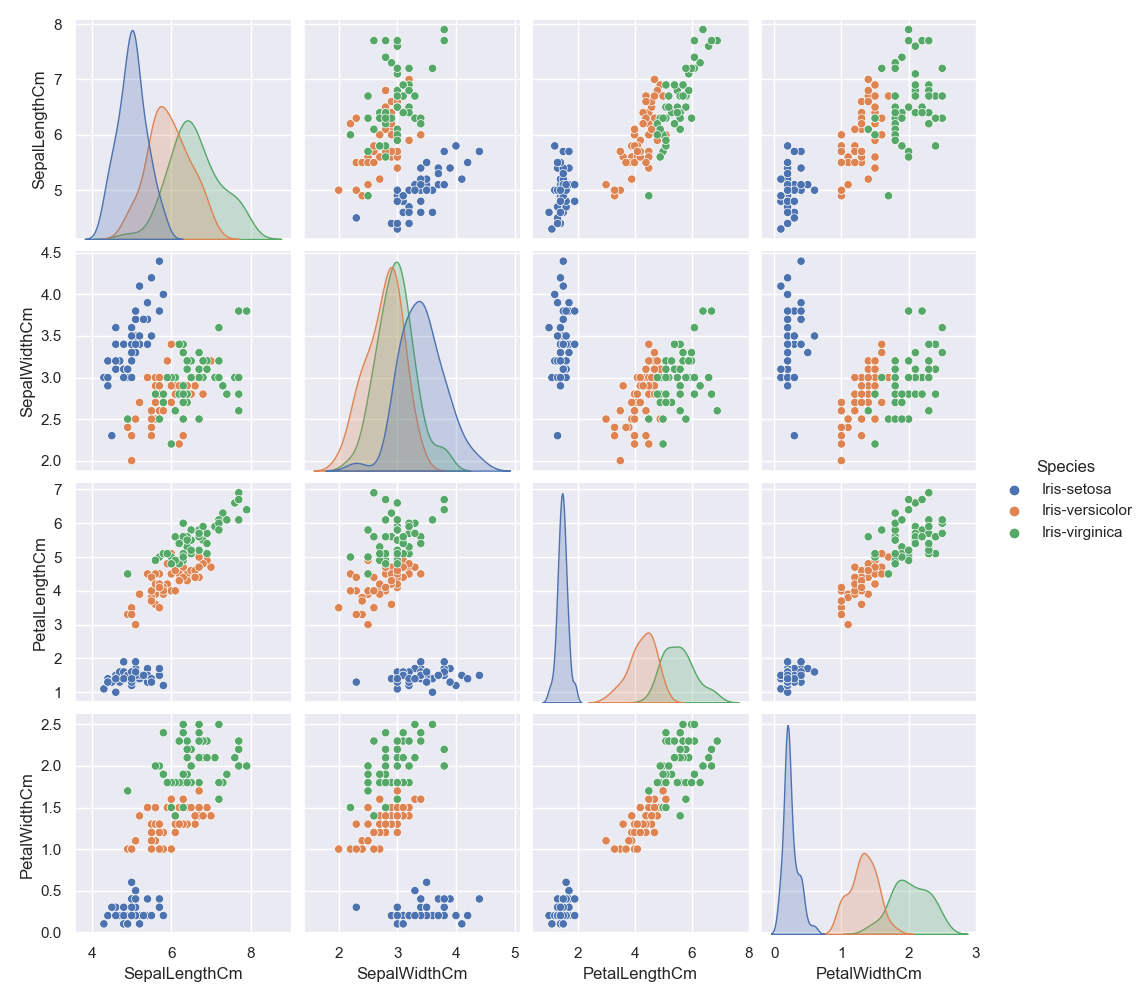
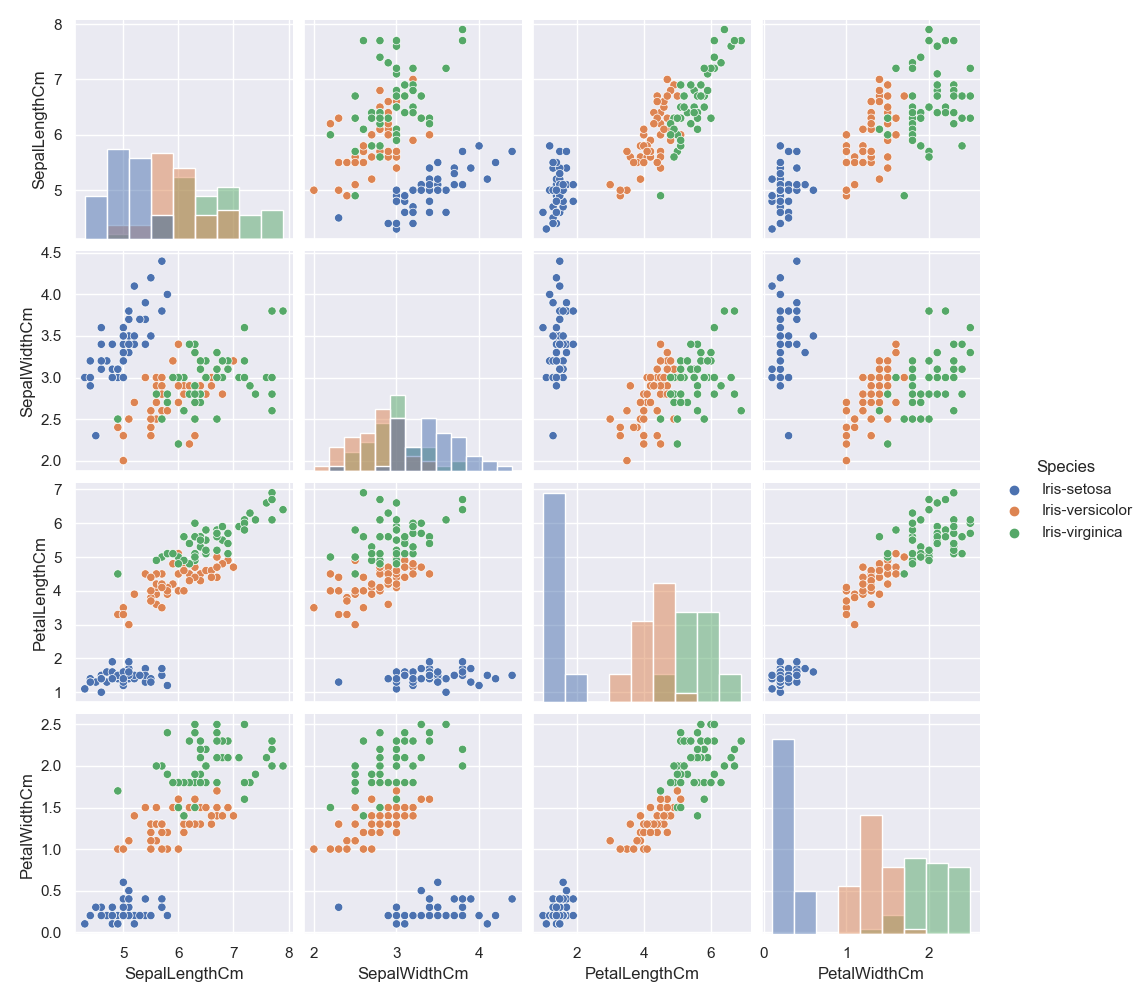
Pairplot updated to use diagonally Histograms, also graph added to readme file and png file name updated.

diff --git a/analysis.py b/analysis.py
@@ -97,8 +97,8 @@ plt.show ()
 
 #Pairplot
 new_iris = iris[["SepalLengthCm", "SepalWidthCm", "PetalLengthCm", "PetalWidthCm", "Species"]] #to remove Id column 
-combination = sns.pairplot(data= new_iris, hue="Species") # https://seaborn.pydata.org/generated/seaborn.pairplot.html
+combination = sns.pairplot(data= new_iris, hue="Species", diag_kind="hist") # https://seaborn.pydata.org/generated/seaborn.pairplot.html
 
 #Save this plot as file
-plt.savefig('PNG/Scatterplot_CombinationsSepalPetal.png')   
+plt.savefig('PNG/Pairplot_CombinationsSepalPetal.png')   
 plt.show ()

diff --git a/README.md b/README.md
@@ -142,17 +142,14 @@ with open ('summaryOfVariables.txt', 'a') as file:
 ### Data Visualisation 
 
 <div align="justify">
-Data visualization is the graphic representation of information and data. By using visual elements such as charts, graphs, and maps, the data displayed can provide valuable information to help you see and understand trends, outliers, and specific patterns in the data. The data can then be used to make decisions, such as making future predictions, or to check the effectiveness of a procedure. The human eye cannot easily interpret data from a table or in this project from a CSV (comma separated values) file; this would require i.e. calculations. The presentation of the data therefore plays a major role, since people can process visual impressions very easily and can usually even interpret them without prior knowledge. A colour change from red to blue can be used or a difference in shape such as a circle compared to a triangle can be easily recognized and help with the interpretation. 
-[16] 
+Data visualization is the graphic representation of information and data. By using visual elements such as charts, graphs, and maps, the data displayed can provide valuable information to help you see and understand trends, outliers, and specific patterns in the data. The data can then be used to make decisions, such as making future predictions, or to check the effectiveness of a procedure. The human eye cannot easily interpret data from a table or in this project from a CSV (comma separated values) file; this would require i.e. calculations. The presentation of the data therefore plays a major role, since people can process visual impressions very easily and can usually even interpret them without prior knowledge. A colour change from red to blue can be used or a difference in shape such as a circle compared to a triangle can be easily recognized and help with the interpretation. Therefore, in the following chapter, the Fisher’s Iris data set was visualised, and histograms and scatter diagrams were designed for this purpose. [16] 
 </div>
 
-
-
-
 #### Histograms of Variables 
+
 Histograms are focused on one variable at a time and shows the distribution of this variable. The values in a Histogram are usually split into intervals. 
 
-The below Histograms have been created using the seaborn library, see Code extract for plots 1 - 4 below:
+The below Histograms have been created using the seaborn library with the x value varying, see Code extract for plots 1 - 4 below:
 
 ```python
     sns.displot(iris, x="SepalLengthCm", hue="Species", element="step") 
@@ -217,6 +214,10 @@ Every time the program runs the plots are shown one after another. The program c
 A scatterplot is used to analyse relationships between variables. The dots in the graph are presenting 
 
 #### Pairplot
+
+<p align="center">
+<img src = "PNG/Pairplot_CombinationSepalPetal.png" alt = "Pairplot of Sepal vs Petal Width/Length in Cm" width = 600 height= 350>
+</p>
 
 ## Data Analysis
 
